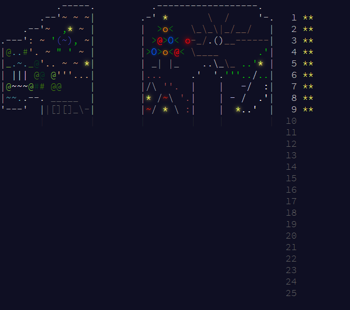
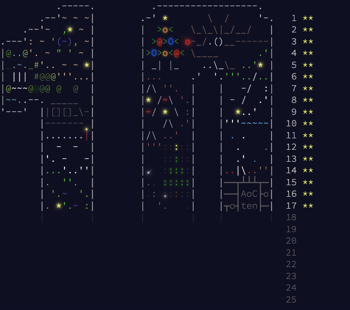
Update the screenshot

diff --git a/2024/main_page/grab_screenshots.py b/2024/main_page/grab_screenshots.py
@@ -73,8 +73,20 @@ def make_animation_runner(single_frame):
         subprocess.check_call(["p4", "edit", dest])
         subprocess.check_call(["p4", "edit", dest2])
         im.save(dest, "PNG")
+        print(f"Wrote {im.width}x{im.height} to {dest}")
         im = im.resize((im.width // 2, im.height // 2), Image.Resampling.BICUBIC)
         im.save(dest2, "PNG")
+        print(f"Wrote {im.width}x{im.height} to {dest2}")
+
+        with open(os.path.join("..", "README.md")) as f:
+            for row in f:
+                m = re.search('width="(?P<width>[0-9]+)" height="(?P<height>[0-9]+)"', row)
+                if m is not None:
+                    if int(m["width"]) != im.width or int(m["height"]) != im.height:
+                        print("Warning: Need to change README.md size!")
+                    else:
+                        print("README.md has the correct size in it")
+                    break
 
 def update_preview():
     make_animation_runner(True)
@@ -91,8 +103,6 @@ def clean_up():
 
 def make_animation_worker(single_frame):
     from selenium import webdriver # type: ignore
-    import chromedriver_binary # type: ignore
-    import undetected_chromedriver as uc # type: ignore
     from PIL import Image, ImageDraw # type: ignore
 
     files = [
@@ -112,7 +122,7 @@ def make_animation_worker(single_frame):
     print("Loading main page...")
     options = webdriver.ChromeOptions()
     options.headless = True
-    driver = uc.Chrome(options=options)
+    driver = webdriver.Chrome(options=options)
     driver.set_window_size(1000, 1000)
     now = datetime.now(UTC).replace(tzinfo=None)
 
@@ -186,7 +196,8 @@ def make_animation_worker(single_frame):
             with open(os.path.join(os.path.split(__file__)[0], "aoc", "_temp_.html"), "wt") as f:
                 f.write(html)
 
-            driver.get(os.path.join(os.path.split(__file__)[0], "aoc", "_temp_.html#" + step['extra']))
+            driver.get("file://" + os.path.join(os.path.split(__file__)[0], "aoc", "_temp_.html#" + step['extra']))
+            # driver.get("https://www.google.com/")
 
             save_screenshot(f"{cur['fn']} {step['extra']} {step['hide_stars']}", driver, "screenshots", step['frames'], files)
             

diff --git a/2024/Helpers/day_17.py b/2024/Helpers/day_17.py
@@ -13,8 +13,6 @@ def other_draw(describe, values):
     animate.create_mp4(DAY_NUM, rate=15, final_secs=5)
 
 def calc(log, values, mode, draw=False):
-    from grid import Grid
-
     a = int(values[0].split(": ")[1])
     b = int(values[1].split(": ")[1])
     c = int(values[2].split(": ")[1])
@@ -61,6 +59,7 @@ def calc(log, values, mode, draw=False):
         return ret
 
     if draw:
+        from grid import Grid
         grid = Grid()
         grid[0, 0] = "."
         grid[100, 0] = "."
@@ -98,7 +97,7 @@ def calc(log, values, mode, draw=False):
                         if off == 0:
                             if draw:
                                 grid.ease_frames(rate=15, secs=30)
-                                grid.draw_frames()
+                                grid.draw_frames(show_lines=False)
                             return next_val
                         todo.append((prog, off - 1, next_val, True, added + [cur]))
                     else:
